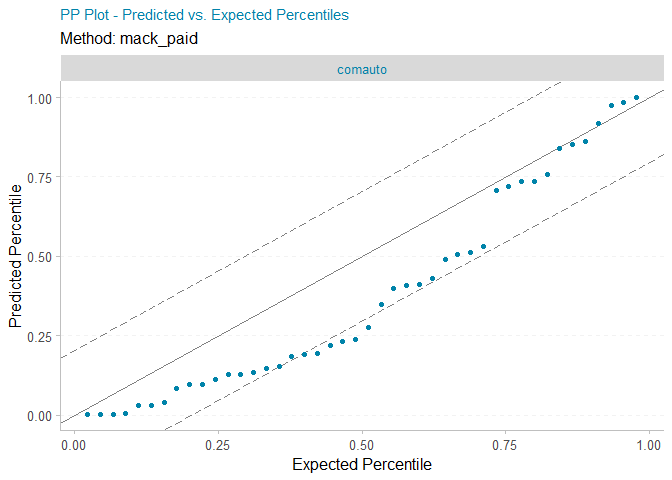
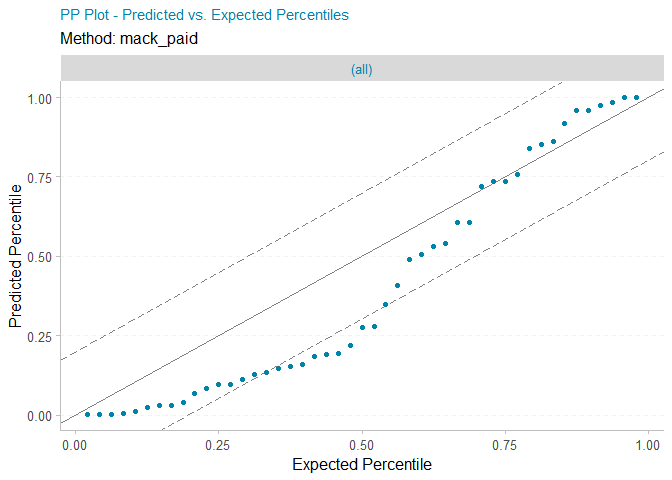
re-run README

diff --git a/README.md b/README.md
@@ -69,10 +69,9 @@ validation / testing.
 
 ``` r
 cas_loss_reserve_db %>%
-  get_meyers_subset() %>%
+  get_meyers_subset(edition = 2) %>%
   filter(line == "ppauto" & group_id == 388) %>%
   pluck("train_tri_set", 1, "paid")
-#> Warning: package 'bindrcpp' was built under R version 3.4.4
 #>       dev_lag
 #> acc_yr     1     2     3     4     5     6     7     8     9    10
 #>   1988 13440 35680 48703 56319 61018 61119 63049 63556 63744 63835
@@ -95,7 +94,7 @@ wkcomp. For this example, we will only use “comauto”.
 
 ``` r
 cas_db_subset <- cas_loss_reserve_db %>%
-  get_meyers_subset()
+  get_meyers_subset(edition = 2)
 ```
 
 The main function is `run_single_backtest` which, in this example, runs
@@ -113,19 +112,19 @@ The output provided is the below.
 
 ``` r
 glimpse(mack_paid_results)
-#> Observations: 47
+#> Observations: 49
 #> Variables: 11
-#> $ line              <chr> "comauto", "comauto", "comauto", "comauto", ...
-#> $ group_id          <dbl> 353, 388, 620, 833, 1066, 1090, 1538, 1767, ...
-#> $ company           <chr> "Celina Mut Grp", "Federal Ins Co Grp", "Emp...
-#> $ method            <chr> "mack_paid", "mack_paid", "mack_paid", "mack...
-#> $ actual_ultimate   <dbl> 40000, 745997, 388485, 24613, 63022, 21354, ...
-#> $ actual_unpaid     <dbl> 7399, 189270, 89855, 2959, 5269, 3474, 16640...
-#> $ mean_ultimate_est <dbl> 39177.438, 714600.238, 398408.978, 25350.326...
-#> $ mean_unpaid_est   <dbl> 6576.4378, 157873.2378, 99778.9781, 3696.325...
-#> $ stddev_est        <dbl> 1442.5094, 46454.1901, 9466.1578, 836.7769, ...
-#> $ cv_unpaid_est     <dbl> 0.21934510, 0.29424994, 0.09487126, 0.226380...
-#> $ implied_pctl      <dbl> 0.7200268344, 0.7563488511, 0.1468789988, 0....
+#> $ line              <chr> "comauto", "comauto", "comauto", "comauto", "coma...
+#> $ group_id          <dbl> 353, 388, 620, 671, 715, 833, 1066, 1090, 1538, 1...
+#> $ company           <chr> "Celina Mut Grp", "Federal Ins Co Grp", "Employer...
+#> $ method            <chr> "mack_paid", "mack_paid", "mack_paid", "mack_paid...
+#> $ actual_ultimate   <dbl> 40000, 745997, 388485, 52884, 107590, 24613, 6302...
+#> $ actual_unpaid     <dbl> 7399, 189270, 89855, 13739, 27777, 2959, 5269, 34...
+#> $ mean_ultimate_est <dbl> 39177.438, 714600.238, 398408.978, 58625.452, 113...
+#> $ mean_unpaid_est   <dbl> 6576.438, 157873.238, 99778.978, 19480.452, 33796...
+#> $ stddev_est        <dbl> 1442.5094, 46454.1901, 9466.1578, 2662.4870, 3137...
+#> $ cv_unpaid_est     <dbl> 0.21934510, 0.29424994, 0.09487126, 0.13667480, 0...
+#> $ implied_pctl      <dbl> 0.7200268344, 0.7563488511, 0.1468789988, 0.01229...
 ```
 
 We can create a p-p plot to visually access the accuracy of our
